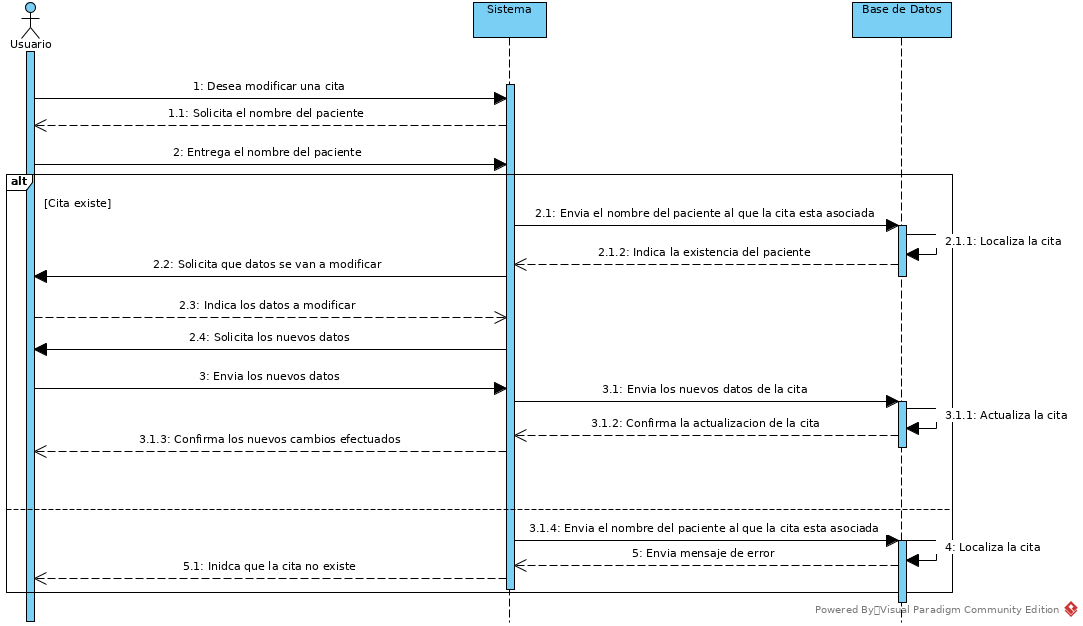
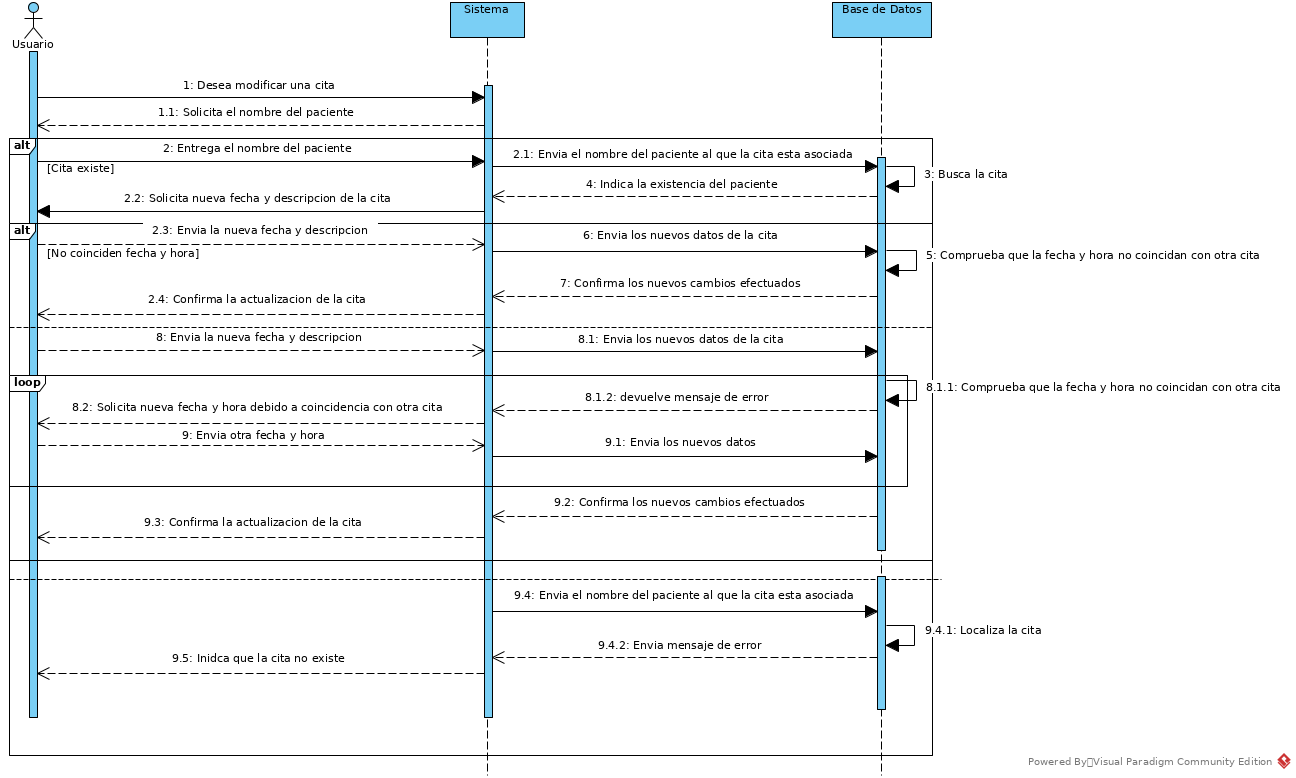
Actualizados diagramas y casos de uso

diff --git a/doc/Casos de Uso/06-Crear-Cita.md b/doc/Casos de Uso/06-Crear-Cita.md
@@ -22,3 +22,4 @@
 **Flujos alternativos**:
 
 6.a. Si los datos no se introducen correctamente, el sistema muestra un mensaje de error
+6.b. Si la cita creada coincide en hora y dia con otra el sistema pedira que introduzcas otro dia y hora

diff --git a/doc/Casos de Uso/07-Modificar-Cita.md b/doc/Casos de Uso/07-Modificar-Cita.md
@@ -23,3 +23,4 @@
 **Flujos alternativos**:
 
 7.a. Si la cita a modificar no existe, el sistema muestra un mensaje de error
+7.b. Si la cita modificada coincide en hora y dia con otra el sistema pedira que introduzcas otra dia y hora

diff --git a/doc/Diagrama de clases/Diagrama_de_clases.md b/doc/Diagrama de clases/Diagrama_de_clases.md
@@ -1,1 +1,1 @@
-![Diagrama de clases](Class%20Diagram1.png)
+![Diagrama de clases](Diagrama_de_clases.png)
